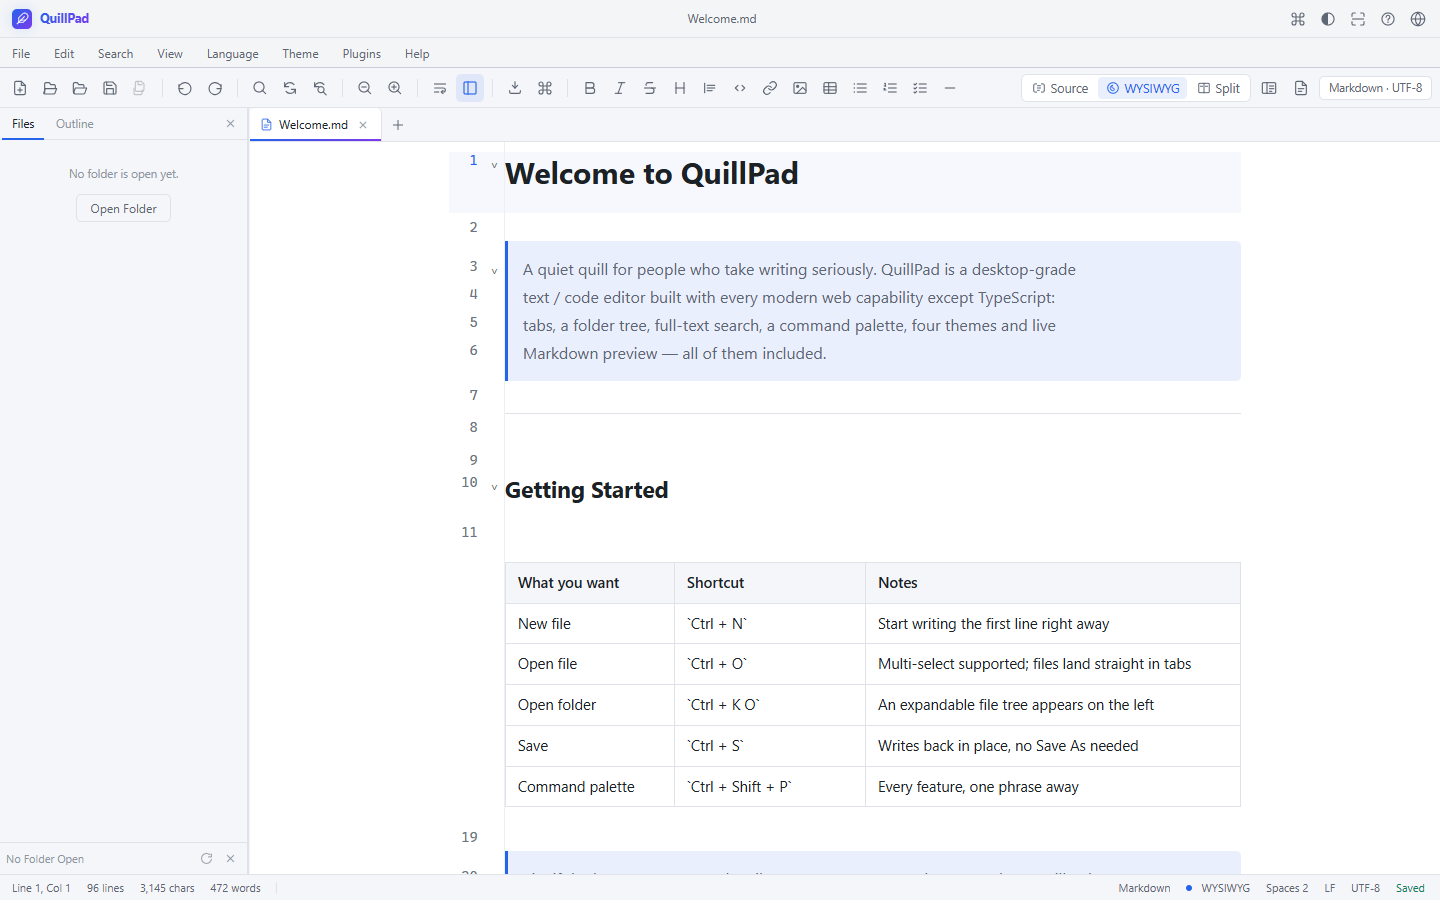
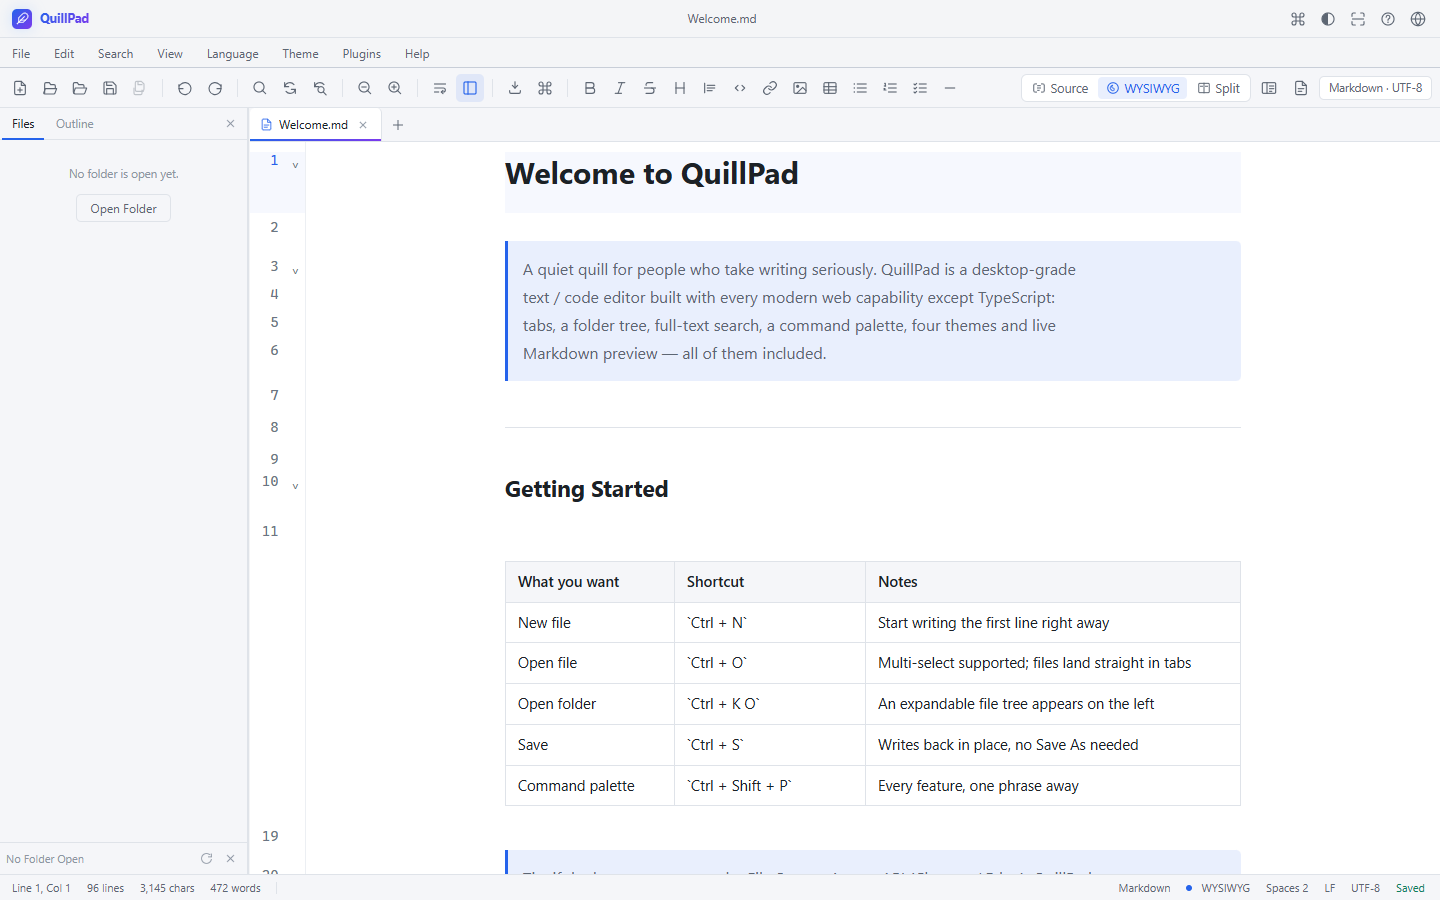
fix(wysiwyg): 行号栏贴编辑区左缘、分隔线画在行盒中线上
- 行号栏：之前把「行号槽 + 正文列」整组居中，1440 窗口下行号栏左侧空出
  约 200px。改为槽位贴滚动区左缘（与源码 / 分栏同一水平位置），正文列用
  `margin: 0 auto` 在槽位右侧的剩余空间里居中，位置与原来一致。
- 分隔线：该行靠上下 padding 撑高，前一行是空行时上内边距被压到 4px，
  行内布局的 <hr> 于是贴着行顶画。改成绝对定位 top:50%，横线落在行高中线、
  上下留白等宽；完全脱离布局，行高与光标换算不受影响，仍铺满内容列。
- 测试：fold-check 新增「行号槽贴左 + 正文列居中」「分隔线在行盒中线」
  「分隔线铺满内容列」三条断言（13/13）；装机冒烟同步 4.1c / 6b.1 / 6b.2
  （49/49）。右留白按 scroller.clientWidth 计算，避免把竖向滚动条那 10px
  算成留白导致装机后假失败。
- 文档：CHANGELOG、两份 USER-GUIDE 同步；README 截图重拍。

diff --git a/src/styles/wysiwyg.css b/src/styles/wysiwyg.css
@@ -30,12 +30,13 @@
      所以容器宽度不再需要「46em + 20px」那 20px 补偿。 */
   width: var(--qp-measure, 46em);
   max-width: 100%;
-  /* 居中交给 `.cm-scroller` 的 justify-content：行号槽是 scroller 的 flex 兄弟，
-     用 `margin: 0 auto` 只能让正文列在「槽位右侧的剩余空间」里居中，行号就会
-     贴在滚动区最左边、离正文两三百像素。让整行（槽位 + 正文列）作为一组居中，
-     行号才紧挨着正文。窗口变窄时允许正文列收缩（min-width:0 + flex-shrink），
-     不会撑出横向滚动条。 */
-  margin: 0;
+  /* 正文列在**行号槽右侧的剩余空间里居中**（`margin: 0 auto` 让 flex 行里的
+     自由空间均分到两侧）。不能把「槽位 + 正文列」整组居中：那会让行号栏浮在
+     窗口中间，左侧空出两百来像素既不放行号也不放正文。
+     槽位本身贴滚动区左缘（与源码 / 分栏模式同一水平位置），正文列则维持原来
+     的居中位置 —— 窗口变窄时 auto 边距归零、正文列自己收缩（min-width:0 +
+     flex-shrink），不会撑出横向滚动条。 */
+  margin: 0 auto;
   flex: 0 1 auto;
   min-width: 0;
 }
@@ -50,12 +51,12 @@
   --qp-line-pad-r: 0px;
 }
 
-/* 所见即所得：行号槽与正文列作为**一组**居中。
-   源码 / 分栏不加 `.qp-wy`，仍是「槽位贴左 + 正文列占满」的原生布局。 */
+/* 所见即所得：行号槽贴滚动区左缘，正文列随后的居中由 `margin: 0 auto` 完成
+   （见上面 `.cm-content.qp-doc`）。
+   之前这里把「槽位 + 正文列」整组居中（`justify-content: center`），行号栏
+   于是浮在窗口中间、左侧空出一条既不放行号也不放正文的空白。 */
 .cm-editor.qp-wy .cm-scroller {
-  justify-content: center;
-  /* 内容比可视区宽时退回 start，避免 flex 居中把左侧内容裁掉（点不到行首） */
-  justify-content: safe center;
+  justify-content: flex-start;
 }
 
 /* 空行：与正文行**同高**（--qp-blank-h = 正文 16px × 1.75 = 28px）。
@@ -762,6 +763,20 @@ html[data-theme='nord'] .cm-editor.qp-wy .cm-selectionBackground {
   border-top: 1px solid var(--border);
 }
 
+/* 分隔线画在**行盒的垂直中线**上（与源码模式里 `---` 文本居中一致）。
+   不能用「行内布局」定位：行盒是 `font-size/line-height: 0`，`<hr>` 会贴在
+   内容区顶端；而上下内边距并不总是对称（前一行是空行时上内边距被压到 4px，
+   见下面 `.qp-blank + .qp-hr-line` 那条），于是分隔线看起来紧贴行顶。
+   改成绝对定位 + `top: 50%`：百分比按**包含块（行的 padding box）**解析，
+   正好落在行高中线，且完全脱离布局 —— 行高仍只由上下 padding 决定，
+   文档总高与光标换算不受影响。左右 `0` 让它铺满内容列（与表格、正文同宽）。 */
+.cm-line.qp-hr-line .qp-hr {
+  position: absolute;
+  left: 0;
+  right: 0;
+  top: 50%;
+}
+
 /* 承载 <hr> 的那一行本身会贡献一个 28px 行高，必须压平（font-size/line-height
    归零），间距全部由本行的 padding 决定 —— 与预览的 hr 上下 32px 一致。
 
@@ -770,6 +785,8 @@ html[data-theme='nord'] .cm-editor.qp-wy .cm-selectionBackground {
    失配 —— 其下标题的 padding-top 就会在 0 / 23.04px 之间跳（整篇 docHeight
    跟着抖）。行类与 widget 的生死无关，选择器恒成立。 */
 .cm-line.qp-hr-line {
+  /* `<hr>` 用绝对定位画在行中线上，需要本行作为定位容器。 */
+  position: relative;
   font-size: 0;
   line-height: 0;
   padding-top: var(--qp-hr-margin, 32px);

diff --git a/src/editor/editor.js b/src/editor/editor.js
@@ -107,8 +107,8 @@ const ARROW_RIGHT_AT_LINE_END = {
  * source / split 仍尊重用户自己的「自动换行」开关。
  *
  * 编辑器根节点上的 `qp-wy` 类是本模式的布局开关：所见即所得也装行号槽 /
- * 折叠槽，而「槽位 + 正文列」必须作为**一组**居中（见 wysiwyg.css §0）。
- * 用类而不是全局规则，保证源码 / 分栏的布局一个字节都不变。
+ * 折叠槽，行号槽与源码模式一样贴滚动区左缘，正文列在槽位右侧居中
+ * （见 wysiwyg.css §0）。用类而不是全局规则，保证源码 / 分栏的布局一个字节都不变。
  */
 const WYSIWYG_DOC_EXTENSION = [
   EditorView.contentAttributes.of({ class: 'qp-doc' }),

diff --git a/USER-GUIDE.en.md b/USER-GUIDE.en.md
@@ -25,7 +25,7 @@ QuillPad is open source under the MIT license: <https://github.com/Frank-TCA/qui
 
 ### Typesetting and writing
 
-- Three view modes — source / WYSIWYG / split — switch directly with `Ctrl+Shift+1` / `2` / `3`. Source mode is a code editor with a fixed 14 px monospace face; WYSIWYG and the split preview are reading surfaces with a 16 px / 28 px line-height / 736 px (46 em) width sans-serif body. All three views keep the line-number column and fold arrows, and in WYSIWYG both stay aligned row by row with the text.
+- Three view modes — source / WYSIWYG / split — switch directly with `Ctrl+Shift+1` / `2` / `3`. Source mode is a code editor with a fixed 14 px monospace face; WYSIWYG and the split preview are reading surfaces with a 16 px / 28 px line-height / 736 px (46 em) width sans-serif body. All three views keep the line-number column and fold arrows; the column is pinned to the left edge of the editing area and the text column is centred in the remaining space, and in WYSIWYG both stay aligned row by row with the text.
 - WYSIWYG renders headings, bold and italic, strikethrough, inline code, links, quotes, lists, task items, code blocks, tables, images, math (KaTeX), footnotes, and a table of contents in place; source markers appear on the line your cursor is on. A single click selects a whole table block, a double click enters cell editing.
 - Code blocks are highlighted in the language written on the fence (a fence tagged `js` is parsed as JavaScript), the label in the top-right corner shows your annotation verbatim, and text selected inside a block gets its own highlight.
 - Table parsing/serialization, adding and removing rows and columns, cycling column alignment, `Tab` to move between cells; drag or paste an image and it lands in an `assets\` folder next to the document, with a random suffix when the name is taken — existing files are never overwritten.

diff --git a/USER-GUIDE.zh-CN.md b/USER-GUIDE.zh-CN.md
@@ -25,7 +25,7 @@
 
 ### 排版与写作
 
-- 三种视图：源码 / 所见即所得（WYSIWYG）/ 分栏；`Ctrl+Shift+1` / `2` / `3` 直切。源码模式是代码编辑器，保持 14px 等宽字体；WYSIWYG 与分栏预览是阅读面，统一 16px / 行高 28px / 栏宽 736px（46em）无衬线正文。三种视图都带行号栏与折叠箭头，所见即所得下两者与正文逐行对齐。
+- 三种视图：源码 / 所见即所得（WYSIWYG）/ 分栏；`Ctrl+Shift+1` / `2` / `3` 直切。源码模式是代码编辑器，保持 14px 等宽字体；WYSIWYG 与分栏预览是阅读面，统一 16px / 行高 28px / 栏宽 736px（46em）无衬线正文。三种视图都带行号栏与折叠箭头，行号栏贴编辑区左缘、正文列在剩余空间居中；所见即所得下两者与正文逐行对齐。
 - WYSIWYG 就地渲染标题、粗斜体、删除线、行内代码、链接、引用、列表、任务项、代码块、表格、图片、公式（KaTeX）、脚注与目录；光标进入该行时按需露出源码标记。表格单击选中整个表格块，双击才进入单元格编辑。
 - 代码块按围栏里标注的语言着色（围栏写 `js` 就按 JavaScript 解析），右上角的语言标签原样显示你写的标注；块内文字选中时有独立的高亮底色。
 - 表格解析/序列化、行列增删、列对齐循环、`Tab` 跳格；图片拖拽/粘贴后落到文档同目录 `assets\`，同名自动加随机后缀，不会覆盖已有文件。

diff --git a/CHANGELOG.md b/CHANGELOG.md
@@ -31,6 +31,13 @@
 
 ### 修复
 
+- **行号栏不再浮在窗口中间。** 之前把「行号槽 + 正文列」整组居中，窗口 1440 宽时
+  行号栏左侧空出约 200px，既不放行号也不放正文。现在行号槽贴编辑区左缘（与源码 /
+  分栏模式同一水平位置），正文列在槽位右侧的剩余空间居中，位置与原来一致。
+- **分隔线画在行盒的垂直中线上。** 分隔线所在行靠上下内边距撑高，而前一行是空行时
+  上内边距会被压到 4px（等价于预览里的外边距折叠），行内布局的 `<hr>` 于是贴在行顶。
+  改成绝对定位 `top: 50%`：横线落在行高中线、上下留白等宽，且完全脱离布局 ——
+  行高、文档总高与光标换算不受影响，宽度仍铺满内容列。
 - **空行不再被压扁。** `--qp-blank-h` 原先固定 12px，改为按正文行高计算
   （16px × 1.75 = 28px），空行与正文行同高；表格后的第一条空行也正常渲染
   （块级表格 widget 原先把紧邻的换行符一起吃掉，现在给表格留出换行）。
